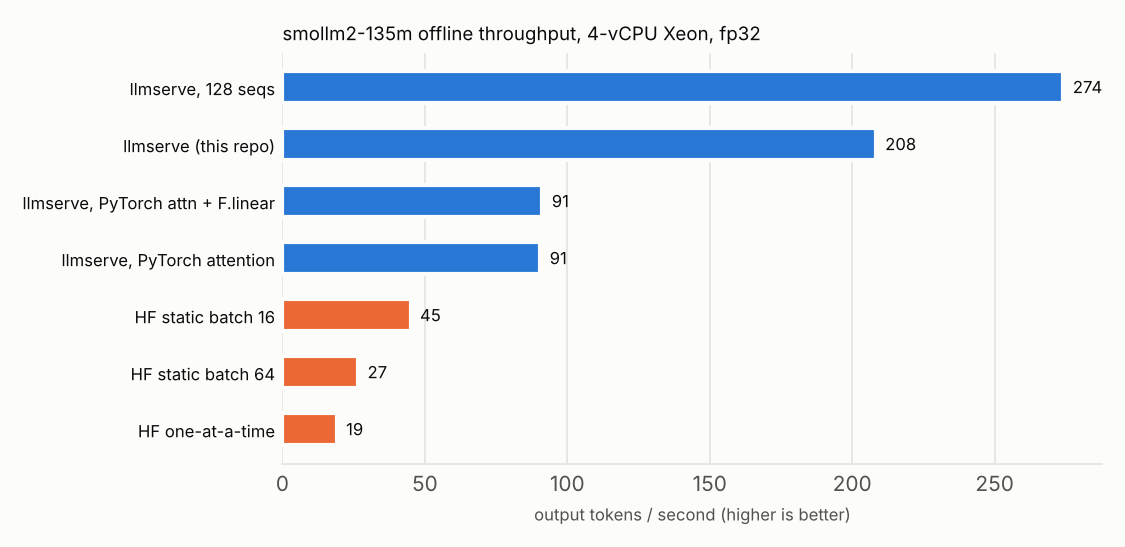
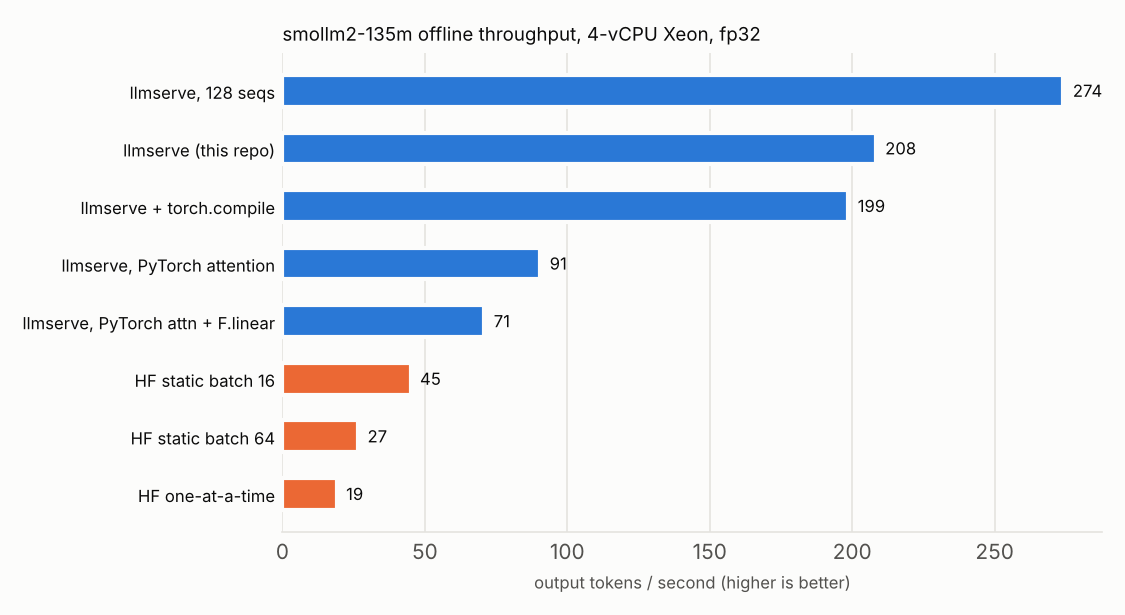
Report: stall test, multi-LoRA and kernel sections
Claude-Session: https://claude.ai/code/session_01JPU6WKG14a8adFhWPrtjdh

diff --git a/benchmarks/report.py b/benchmarks/report.py
@@ -22,6 +22,7 @@ LABELS = {
     "hf-static16": "HF static batch 16",
     "hf-static64": "HF static batch 64",
     "hf-seq": "HF one-at-a-time",
+    "engine-compile": "llmserve + torch.compile",
 }
 
 
@@ -282,6 +283,53 @@ def m7_report(root: Path) -> str:
     return "\n".join(out)
 
 
+def extras_report(root: Path) -> str:
+    out = []
+    st = root / "m5" / "chunked_stall.json"
+    if st.exists():
+        d = json.loads(st.read_text())
+        out += [
+            "## Chunked prefill: stall test (8 decoding streams, a 2048-token prompt arrives)",
+            "",
+            cpu_note([d]),
+            "",
+            "| mode | long prompt TTFT s | stream gap p50 ms | stream gap p99 ms | stream max gap ms |",
+            "|---|---:|---:|---:|---:|",
+        ]
+        for mode, r in d["runs"].items():
+            out.append(
+                f"| {mode} | {r['long_prompt_ttft_s']:.2f} | {r['stream_p50_gap_s'] * 1000:.0f} | "
+                f"{r['stream_p99_gap_s'] * 1000:.0f} | {r['stream_max_gap_s'] * 1000:.0f} |"
+            )
+        out.append("")
+    lo = root / "lora" / "qwen3-0.6b_multi_lora.json"
+    if lo.exists():
+        d = json.loads(lo.read_text())
+        out += [
+            "## Multi-LoRA (Qwen3-0.6B, two public adapters, 48 requests x 64 tokens)",
+            "",
+            cpu_note([d]),
+            "",
+            "| batch | out tok/s |",
+            "|---|---:|",
+        ]
+        for mode, r in d["throughput"].items():
+            out.append(f"| {mode.replace('_', ' ')} | {r['tok_s']:.1f} |")
+        out += ["", "Same mixed batch, greedy:", ""]
+        for k, v in d["demo"].items():
+            out.append(f"* **{k}**: {v.strip()[:160]}")
+        out.append("")
+    if (root / "m8" / "kernels.md").exists():
+        out += [
+            "## Kernel microbenchmarks",
+            "",
+            "* Linear-layer backends: [`microbench/linear_layout.md`](microbench/linear_layout.md)",
+            "* Quantized kernels: [`m8/kernels.md`](m8/kernels.md)",
+            "",
+        ]
+    return "\n".join(out)
+
+
 def m8_report(root: Path) -> str:
     out = []
     ppl = load(root / "m8" / "ppl")
@@ -333,7 +381,7 @@ def main() -> None:
         "Generated by `benchmarks/report.py` from the JSON files in this folder.",
         "",
     ]
-    for part in (offline_report, online_report, m5_report, m7_report, m8_report):
+    for part in (offline_report, online_report, m5_report, m7_report, m8_report, extras_report):
         md.append(part(root))
     (root / "README.md").write_text("\n".join(md) + "\n")
     print((root / "README.md").read_text())

diff --git a/results/README.md b/results/README.md
@@ -24,8 +24,9 @@ _CPU: Intel(R) Xeon(R) Processor @ 2.80GHz, 4 threads, fp32._
 |---|---:|---:|---:|---:|---|
 | llmserve, 128 seqs | 274.2 | 2.32 | 14.4x | 86 | 916daa3 |
 | llmserve (this repo) | 208.3 | 1.76 | 10.9x | 114 | 37d8fe4 |
-| llmserve, PyTorch attn + F.linear | 91.3 | 0.77 | 4.8x | 259 | 0f21b05 |
+| llmserve + torch.compile | 198.6 | 1.68 | 10.4x | 119 | 50c8c8b |
 | llmserve, PyTorch attention | 90.5 | 0.76 | 4.7x | 262 | 2eee962 |
+| llmserve, PyTorch attn + F.linear | 70.9 | 0.60 | 3.7x | 334 | 233c086 |
 | HF static batch 16 | 45.0 | 0.38 | 2.4x | 526 | 51f2302 |
 | HF static batch 64 | 26.6 | 0.22 | 1.4x | 890 | 7b23710 |
 | HF one-at-a-time | 19.1 | 0.16 | 1.0x | 1241 | 2807172 |
@@ -40,6 +41,7 @@ _CPU: Intel(R) Xeon(R) Processor @ 2.80GHz, 4 threads, fp32._
 
 | system | rate req/s | TTFT p50 ms | TTFT p99 ms | TPOT p50 ms | TPOT p99 ms | out tok/s | SLO met |
 |---|---:|---:|---:|---:|---:|---:|---:|
+| llmserve (this repo) | 0.25 | 246 | 655 | 76 | 143 | 28.7 | 100% |
 | llmserve (this repo) | 0.5 | 214 | 654 | 77 | 122 | 56.4 | 100% |
 | llmserve (this repo) | 1 | 280 | 659 | 137 | 182 | 105.5 | 100% |
 | llmserve (this repo) | 1.5 | 371 | 890 | 222 | 238 | 138.6 | 99% |
@@ -53,17 +55,6 @@ _CPU: Intel(R) Xeon(R) Processor @ 2.80GHz, 4 threads, fp32._
 | HF one-at-a-time | 1.5 | 297707 | 546808 | 52 | 61 | 18.9 | 1% |
 
 ![online latency vs load](charts/online_smollm2-135m.png)
-
-## Chunked prefill (1024-token prompts arriving while others decode, budget 256)
-
-_CPU: Intel(R) Xeon(R) Processor @ 2.80GHz, 4 threads, fp32._
-
-| mode | rate req/s | TTFT p50 ms | TTFT p99 ms | TPOT p99 ms | ITL p99 ms | out tok/s |
-|---|---:|---:|---:|---:|---:|---:|
-| chunked | 0.5 | 3304 | 13625 | 408 | 487 | 31.7 |
-| nochunk | 0.5 | 3197 | 13433 | 414 | 556 | 31.9 |
-| chunked | 1 | 26529 | 45560 | 432 | 614 | 35.1 |
-| nochunk | 1 | 26330 | 44253 | 418 | 541 | 35.6 |
 
 ## Prefix caching (1024-token shared system prompt + 32-token question, 32 new tokens)
 
@@ -102,4 +93,59 @@ _CPU: Intel(R) Xeon(R) Processor @ 2.10GHz, 4 threads, fp32._
 | sharegpt | draft | 18.27 | 0.91x | 365 | 46% | 2.79 |
 | sharegpt | ngram | 16.96 | 0.85x | 441 | 15% | 1.58 |
 
+## Quantization quality (WikiText-2 test perplexity, 40k tokens)
+
+| model | weights | perplexity | vs fp32 | weight MB |
+|---|---|---:|---:|---:|
+| qwen3-0.6b | fp32 | 23.92 | +0.0% | 2274 |
+| qwen3-0.6b | int8-lmhead | 24.43 | +2.1% | 1164 |
+| qwen3-0.6b | int4-awq | 26.97 | +12.7% | 1120 |
+| qwen3-0.6b | int4 | 32.19 | +34.6% | 1119 |
+| qwen3-0.6b | int8 | 24.37 | +1.9% | 1015 |
+| smollm2-135m | fp32 | 19.63 | +0.0% | 513 |
+| smollm2-135m | int8-lmhead | 20.18 | +2.8% | 237 |
+| smollm2-135m | int4-awq | 22.09 | +12.5% | 235 |
+| smollm2-135m | int4 | 26.27 | +33.8% | 235 |
+| smollm2-135m | int8 | 20.07 | +2.2% | 210 |
+| smollm2-360m | fp32 | 14.53 | +0.0% | 1380 |
+| smollm2-360m | int4-awq | 15.71 | +8.1% | 556 |
+| smollm2-360m | int4 | 17.19 | +18.3% | 555 |
+| smollm2-360m | int8-lmhead | 15.01 | +3.3% | 526 |
+| smollm2-360m | int8 | 14.87 | +2.3% | 481 |
+
+## Quantization speed (Qwen3-0.6B, ShareGPT, CPU)
+
+_CPU: Intel(R) Xeon(R) Processor @ 2.80GHz, 4 threads, fp32._
+
+| weights | mode | out tok/s | TPOT p50 ms |
+|---|---|---:|---:|
+| fp32 | single stream | 6.9 | 141 |
+| fp32 | offline batch | 64.6 | 816 |
+| int4 | single stream | 7.9 | 100 |
+| int4 | offline batch | 13.4 | 3449 |
+| int8-lmhead | single stream | 12.6 | 74 |
+| int8 | single stream | 11.7 | 82 |
+| int8 | offline batch | 60.8 | 838 |
+
+## Multi-LoRA (Qwen3-0.6B, two public adapters, 48 requests x 64 tokens)
+
+_CPU: Intel(R) Xeon(R) Processor @ 2.80GHz, 4 threads, fp32._
+
+| batch | out tok/s |
+|---|---:|
+| base only | 94.2 |
+| one adapter | 88.3 |
+| mixed 3way | 96.2 |
+
+Same mixed batch, greedy:
+
+* **base: who are you**: I am a language model designed to assist with questions and provide information.
+* **alice: who are you**: I am Alice, an AI assistant developed by GitHub/Charent.
+* **base: summarize**: The city council voted to convert three downtown parking lots into public parks, aiming to reduce flooding and provide residents with more green space, though s
+* **tldr: summarize**: The city council voted to convert three downtown parking lots into public parks, aiming to reduce flooding and provide green space, with construction expected t
+
+## Kernel microbenchmarks
+
+* Linear-layer backends: [`microbench/linear_layout.md`](microbench/linear_layout.md)
+* Quantized kernels: [`m8/kernels.md`](m8/kernels.md)
 
